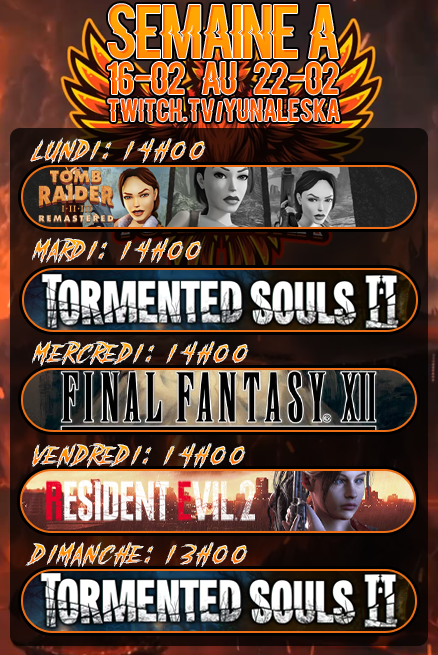
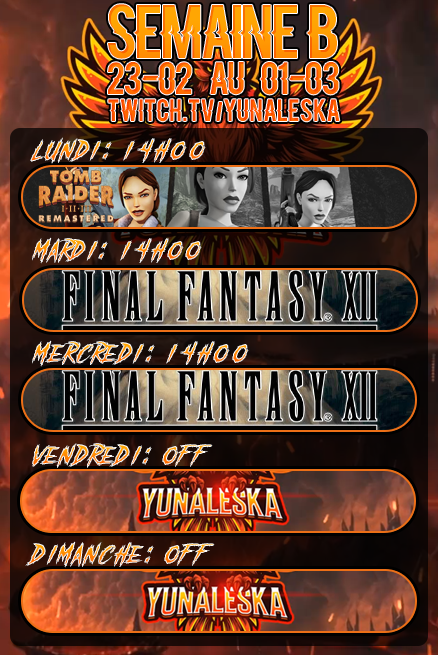
weekly update, ver1.45

diff --git a/assets/scripts/updates.js b/assets/scripts/updates.js
@@ -1,19 +1,19 @@
 export const updates = [
   {
-    version: "1.44",
-    date: "15-02-2026",
+    version: "1.45",
+    date: "23-02-2026",
     messages: {
       fr: {
         features: [
-          "○ Planning de la semaine du 16 février 2026",
+          "○ Planning de la semaine du 23 février 2026",
 
           "○ Mise à jour des succès Tomb Raider I•II•III Remastered (Steam)",
-          "○ Mise à jour des succès Shape of Dreams [100%] (Steam)",
-          "○ Mise à jour des trophées Final Fantasy V : Pixel Remaster [Platine] (PS4)",
+          "○ Mise à jour des succès Tormented Souls II (Steam)",
+          "○ Mise à jour des succès Resident Evil Village (Steam)",
+          "○ Mise à jour des succès Goblin Cleanup (Steam)",
           "○ Mise à jour des trophées Final Fantasy VI : Pixel Remaster (PS4)",
 
-          "○ Ajout de Goblin Cleanup et de ses succès (Steam)",
-          "○ Ajout de Rayman: 30th Anniversary Edition et de ses trophées (PS5)"
+          "○ Ajout de Wicked Seed et de ses succès (Steam)"
         ],
         fixes: [
           
@@ -21,15 +21,15 @@ export const updates = [
       },
       en: {
         features: [
-          "○ Weekly Schedule from the 16th of February 2026",
+          "○ Weekly Schedule from the 23rd of February 2026",
 
           "○ Updated Tomb Raider I•II•III Remastered achievements (Steam)",
-          "○ Updated Shape of Dreams achievements (Steam)",
-          "○ Updated Final Fantasy V : Pixel Remaster [Platinum] trophies (PS4)",
+          "○ Updated Tormented Souls II achievements (Steam)",
+          "○ Updated Resident Evil Village achievements (Steam)",
+          "○ Updated Goblin Cleanup achievements (Steam)",
           "○ Updated Final Fantasy VI : Pixel Remaster trophies (PS4)",
 
-          "○ Added Goblin Cleanup ands its achievements (Steam)",
-          "○ Added Rayman: 30th Anniversary Edition ands its trophies (PS5)"
+          "○ Added Wicked Seed and its achievements (Steam)"
         ],
         fixes: [
           
